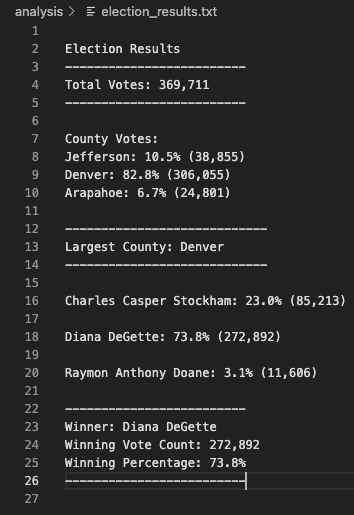
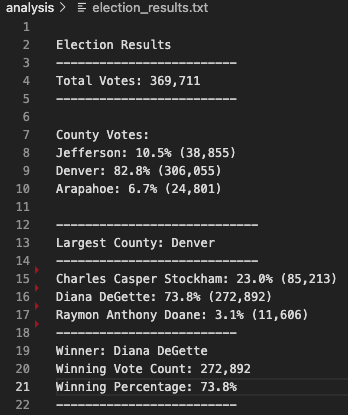
adding files

Changed region(s): [[0.1437, 0.2313, 0.977, 0.9831], [0.0, 0.0, 0.6322, 1.0], [0.1437, 0.0867, 0.6897, 0.2024]]

diff --git a/PyPoll_Challenge.py b/PyPoll_Challenge.py
@@ -117,7 +117,7 @@ with open(file_to_save, "w") as txt_file:
         votes = candidate_votes.get(candidate_name)
         vote_percentage = float(votes) / float(total_votes) * 100
         candidate_results = (
-            f"\n{candidate_name}: {vote_percentage:.1f}% ({votes:,})\n")
+            f"{candidate_name}: {vote_percentage:.1f}% ({votes:,})\n")
 
         # Print each candidate's voter count and percentage to the
         # terminal.
@@ -133,13 +133,11 @@ with open(file_to_save, "w") as txt_file:
 
     # Print the winning candidate (to terminal)
     winning_candidate_summary = (
-        f"\n"
         f"-------------------------\n"
         f"Winner: {winning_candidate}\n"
         f"Winning Vote Count: {winning_count:,}\n"
         f"Winning Percentage: {winning_percentage:.1f}%\n"
         f"-------------------------\n")
     print(winning_candidate_summary)
-
     # Save the winning candidate's name to the text file
     txt_file.write(winning_candidate_summary)
